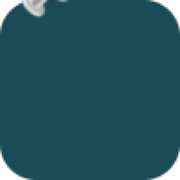
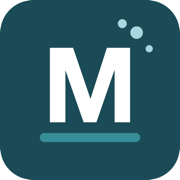
feat: ícone PWA redesenhado com identidade visual da clínica
Substituído ícone emoji (quase invisível no iOS) por ícone vetorial
limpo: letra M em branco sobre fundo #1B4B56, barra de acento #368e99
e pontos decorativos — legível em todos os tamanhos (512/192/180px).

diff --git a/vite.config.js b/vite.config.js
@@ -36,7 +36,8 @@ export default defineConfig({
         start_url: '/',
         icons: [
           { src: '/pwa-192x192.png', sizes: '192x192', type: 'image/png', purpose: 'any' },
-          { src: '/pwa-512x512.png', sizes: '512x512', type: 'image/png', purpose: 'any maskable' },
+          { src: '/pwa-512x512.png', sizes: '512x512', type: 'image/png', purpose: 'maskable' },
+          { src: '/apple-touch-icon.png', sizes: '180x180', type: 'image/png', purpose: 'any' },
         ],
       },
       devOptions: { enabled: false },
